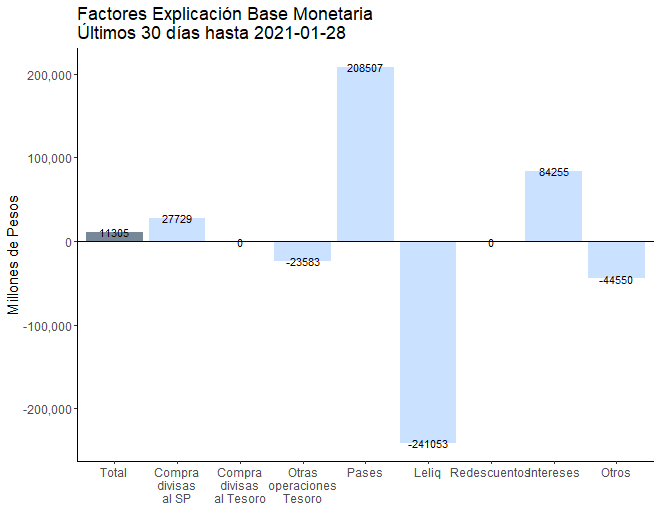
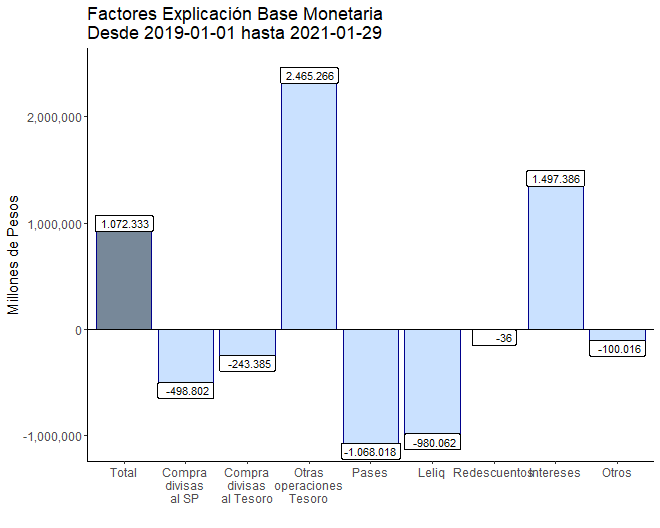
factores BM

diff --git a/Agregados.html b/Agregados.html
@@ -375,61 +375,82 @@ $(document).ready(function () {
 </div>
 <div id="section-7" class="section level3">
 <h3>8</h3>
-<p><img src="Graficos/BM3_lin.png" /></p>
+<p><img src="Graficos/BM3_lin.png" /> ## Base Monetaria en términos reales y del PIB</p>
+<p><a id="BM_real"></a></p>
+<p><br><br><br><br></p>
+</div>
+<div id="section-8" class="section level3">
+<h3>9</h3>
+<p><img src="Graficos/BM_real.png" /></p>
+<p><a id="BM_pib1"></a></p>
+<p><br><br><br><br></p>
+</div>
+<div id="section-9" class="section level3">
+<h3>10</h3>
+<p><img src="Graficos/BM_pib1.png" /></p>
+<p><a id="BM_pib2"></a></p>
+<p><br><br><br><br></p>
+</div>
+<div id="section-10" class="section level3">
+<h3>11</h3>
+<p><img src="Graficos/BM_pib2.png" /></p>
+<p><a id="BM_pib3"></a></p>
+<p><br><br><br><br></p>
+</div>
+<div id="section-11" class="section level3">
+<h3>12</h3>
+<p><img src="Graficos/BM_pib3.png" /></p>
 </div>
 </div>
 <div id="factores-de-explicación-de-la-bm-acumulados" class="section level2">
 <h2>Factores de Explicación de la BM (acumulados)</h2>
 <p><a id="BM_f1"></a></p>
-<p><br><br><br><br></p>
-<div id="section-8" class="section level3">
-<h3>9</h3>
-<p><img src="Graficos/BM_f1.png" /></p>
+<p><br><br><br><br> ### 3 <img src="Graficos/BM_f1.png" /></p>
 <p><a id="BM_f2"></a></p>
 <p><br><br><br><br></p>
-</div>
-<div id="section-9" class="section level3">
-<h3>10</h3>
+<div id="section-12" class="section level3">
+<h3>14</h3>
 <p><img src="Graficos/BM_f2.png" /></p>
 <p><a id="BM_f3"></a></p>
 <p><br><br><br><br></p>
 </div>
-<div id="section-10" class="section level3">
-<h3>11</h3>
+<div id="section-13" class="section level3">
+<h3>15</h3>
 <p><img src="Graficos/BM_f3.png" /></p>
 <p><a id="BM_f4"></a></p>
 <p><br><br><br><br></p>
 </div>
-<div id="section-11" class="section level3">
-<h3>12</h3>
+<div id="section-14" class="section level3">
+<h3>16</h3>
 <p><img src="Graficos/BM_f4.png" /></p>
 </div>
 </div>
-<div id="base-monetaria-en-términos-reales-y-del-pib" class="section level2">
-<h2>Base Monetaria en términos reales y del PIB</h2>
-<p><a id="BM_real"></a></p>
-<p><br><br><br><br></p>
-<div id="section-12" class="section level3">
-<h3>13</h3>
-<p><img src="Graficos/BM_real.png" /></p>
-<p><a id="BM_pib1"></a></p>
+<div id="factores-de-explicación-la-bm-total" class="section level2">
+<h2>Factores de explicación la BM (total)</h2>
+<p><a id="BM_f5"></a></p>
 <p><br><br><br><br></p>
 </div>
-<div id="section-13" class="section level3">
-<h3>14</h3>
-<p><img src="Graficos/BM_pib1.png" /></p>
-<p><a id="BM_pib2"></a></p>
+<div id="section-15" class="section level2">
+<h2>17</h2>
+<p><img src="Graficos/BM_f5.png" /></p>
+<p><a id="BM_f6"></a></p>
 <p><br><br><br><br></p>
 </div>
-<div id="section-14" class="section level3">
-<h3>15</h3>
-<p><img src="Graficos/BM_pib2.png" /></p>
-<p><a id="BM_pib3"></a></p>
+<div id="section-16" class="section level2">
+<h2>18</h2>
+<p><img src="Graficos/BM_f6.png" /></p>
+<p><a id="BM_f7"></a></p>
 <p><br><br><br><br></p>
 </div>
-<div id="section-15" class="section level3">
-<h3>16</h3>
-<p><img src="Graficos/BM_pib3.png" /></p>
+<div id="section-17" class="section level2">
+<h2>19</h2>
+<p><img src="Graficos/BM_f7.png" /></p>
+<p><a id="BM_f8"></a></p>
+<p><br><br><br><br></p>
+</div>
+<div id="section-18" class="section level2">
+<h2>20</h2>
+<p><img src="Graficos/BM_f8.png" /></p>
 <p><a id="M20"></a></p>
 <p><br><br><br><br></p>
 <p><img src="Graficos/M20.png" /></p>
@@ -448,9 +469,6 @@ $(document).ready(function () {
 <p><a id="BM_var"></a></p>
 <p><br><br><br><br></p>
 <p><img src="Graficos/BM_var.png" /></p>
-<p><a id="BM_f5"></a></p>
-<p><br><br><br><br></p>
-<p><img src="Graficos/BM_f5.png" /></p>
 <p><a id="M2_f5"></a></p>
 <p><br><br><br><br></p>
 <p><img src="Graficos/M2_f5.png" /> ``</p>
@@ -468,7 +486,6 @@ $(document).ready(function () {
 <p><a id="crec_ca"></a></p>
 <p><br><br><br><br></p>
 <p><img src="Graficos/crec_ca.png" /></p>
-</div>
 </div>
 
 

diff --git a/index.html b/index.html
@@ -353,6 +353,19 @@ Agregados
 <li>
 <a href="./Agregados.html#BMc3">Desde el 01/01/2021</a>
 </li>
+<u>Base Monetaria en términos reales y del PIB</u>
+<li>
+<a href="./Agregados.html#BM_real">En términos reales</a>
+</li>
+<li>
+<a href="./Agregados.html#BM_pib1">En % del PIB, a precios corrientes</a>
+</li>
+<li>
+<a href="./Agregados.html#BM_pib2">En % del PIB, a precios corrientes, prom. móv. 12 meses</a>
+</li>
+<li>
+<a href="./Agregados.html#BM_pib3">En % del PIB, a precios corrientes sin estacionalidad</a>
+</li>
 <u>Factores de explicación la BM (acumulados)</u>
 <li>
 <a href="./Agregados.html#BM_f1">Desde el 01/01/2019</a>
@@ -366,18 +379,18 @@ Agregados
 <li>
 <a href="./Agregados.html#BM_f4">Últimos 30 días</a>
 </li>
-<u>Base Monetaria en términos reales y del PIB</u>
+<u>Factores de explicación la BM (total)</u>
 <li>
-<a href="./Agregados.html#BM_real">En términos reales</a>
+<a href="./Agregados.html#BM_f5">Desde el 01/01/2019</a>
 </li>
 <li>
-<a href="./Agregados.html#BM_pib1">En % del PIB, a precios corrientes</a>
+<a href="./Agregados.html#BM_f6">Desde el 01/01/2020</a>
 </li>
 <li>
-<a href="./Agregados.html#BM_pib2">En % del PIB, a precios corrientes, prom. móv. 12 meses</a>
+<a href="./Agregados.html#BM_f7">Desde el 01/01/2021</a>
 </li>
 <li>
-<a href="./Agregados.html#BM_pib3">En % del PIB, a precios corrientes sin estacionalidad</a>
+<a href="./Agregados.html#BM_f8">Últimos 30 días</a>
 </li>
 <u>Desde el 01/01/2020</u>
 <li>
